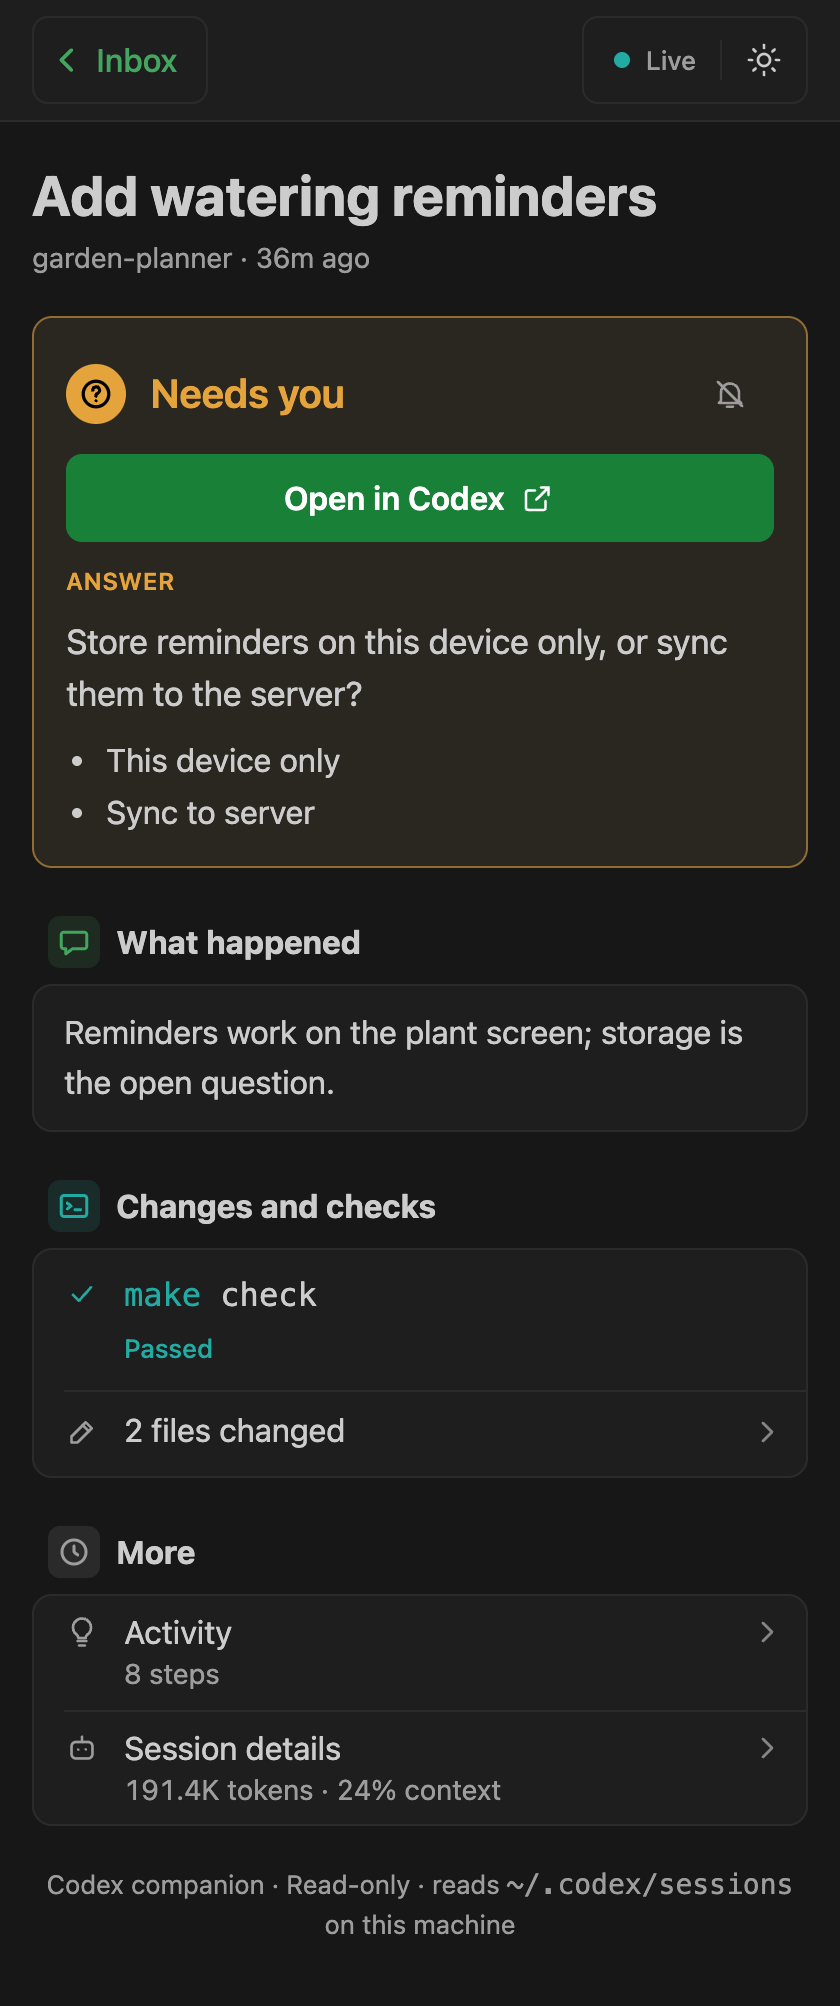
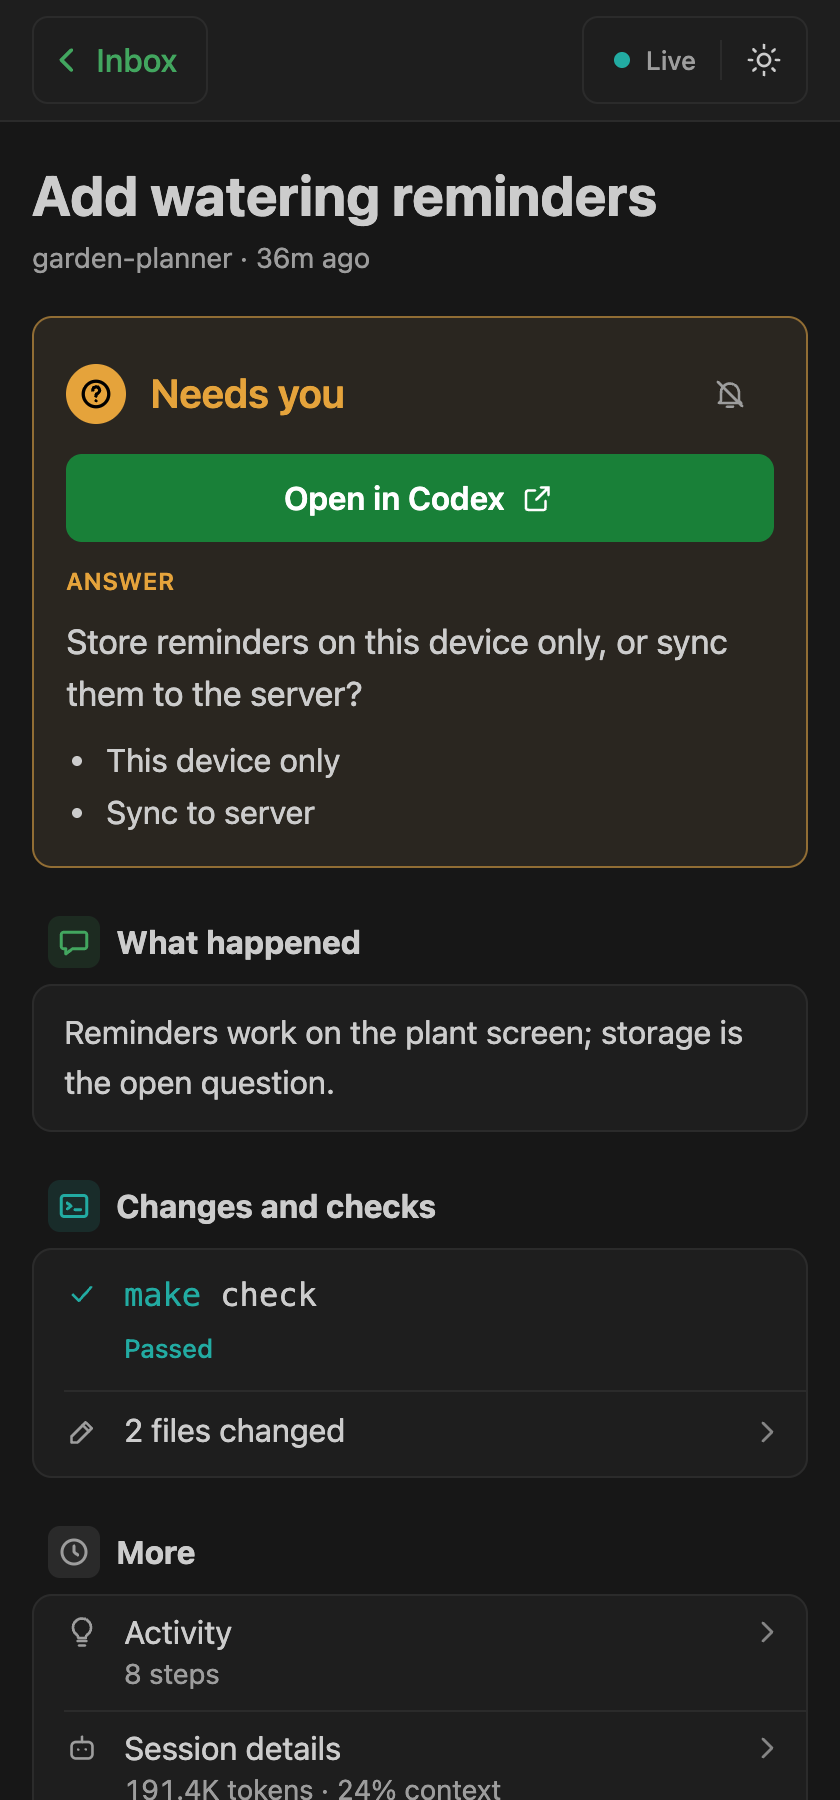
Give the narrow README screenshots one height and lay out the three questions as a table

diff --git a/scripts/readme_screenshots.py b/scripts/readme_screenshots.py
@@ -232,18 +232,15 @@ def main() -> None:
                 desk.screenshot(path=str(OUT / "board.png"))
                 print("wrote docs/images/board.png")
 
-                shots = (("inbox", "/", False), ("chat-waiting", f"/?thread={chats[0].id}", False),
-                         ("chat-done", f"/?thread={chats[1].id}", True))
-                for name, path, files in shots:
+                shots = (("inbox", "/"), ("chat-waiting", f"/?thread={chats[0].id}"),
+                         ("chat-done", f"/?thread={chats[1].id}"))
+                for name, path in shots:
                     # A fresh context per shot: opening a chat marks its result as seen.
+                    # One fixed viewport keeps the side-by-side README images the same height.
                     page = browser.new_page(viewport={"width": 420, "height": 900}, device_scale_factor=2,
                                             color_scheme="dark", reduced_motion="reduce")
                     page.goto(base + path)
                     page.wait_for_timeout(1200)
-                    if files:
-                        page.locator("#session-files-summary").click()
-                        page.wait_for_timeout(300)
-                    page.set_viewport_size({"width": 420, "height": page.evaluate("document.documentElement.scrollHeight")})
                     page.screenshot(path=str(OUT / f"{name}.png"))
                     page.close()
                     print(f"wrote docs/images/{name}.png")

diff --git a/README.md b/README.md
@@ -15,7 +15,7 @@
 
 <img src="docs/images/inbox.png" width="260" align="top" alt="Dark theme inbox with status filters and sections for chats that need you, are working, and have new results">
 <img src="docs/images/chat-waiting.png" width="260" align="top" alt="Chat waiting for an answer, with the question, its options, a reminder bell, and the checks that ran">
-<img src="docs/images/chat-done.png" width="260" align="top" alt="Finished chat with a recap of the whole chat, decisions, and every file the chat changed">
+<img src="docs/images/chat-done.png" width="260" align="top" alt="Finished chat with a recap of the whole chat, the latest turn, its passing check, and your decision">
 
 <sub>Screenshots use made-up demo chats from <code>make screenshots</code>, not real session data.</sub>
 
@@ -31,8 +31,16 @@ outcome, the decision it is waiting for, or whether the tests ran after the last
 transcript to find that is slow, and with several chats open it is easy to miss the one that is
 blocked on me.
 
-The companion answers three questions per chat: does it need me, what happened, and what do I do
-next. It does not control Codex. It only reads, and every action happens back in the Codex app.
+The companion answers three questions per chat:
+
+| Question | Where the answer is |
+| --- | --- |
+| Does it need me? | The status (Needs you, Working, or Done) and the Needs you count in the inbox |
+| What happened? | The recap and outcome, the files the chat changed, and the checks it ran |
+| What do I do next? | The next step, with **Open in Codex** to act on it |
+
+> [!NOTE]
+> The companion does not control Codex. It only reads, and every action happens back in the Codex app.
 
 The path from a busy afternoon of chats to the next action is:
 
